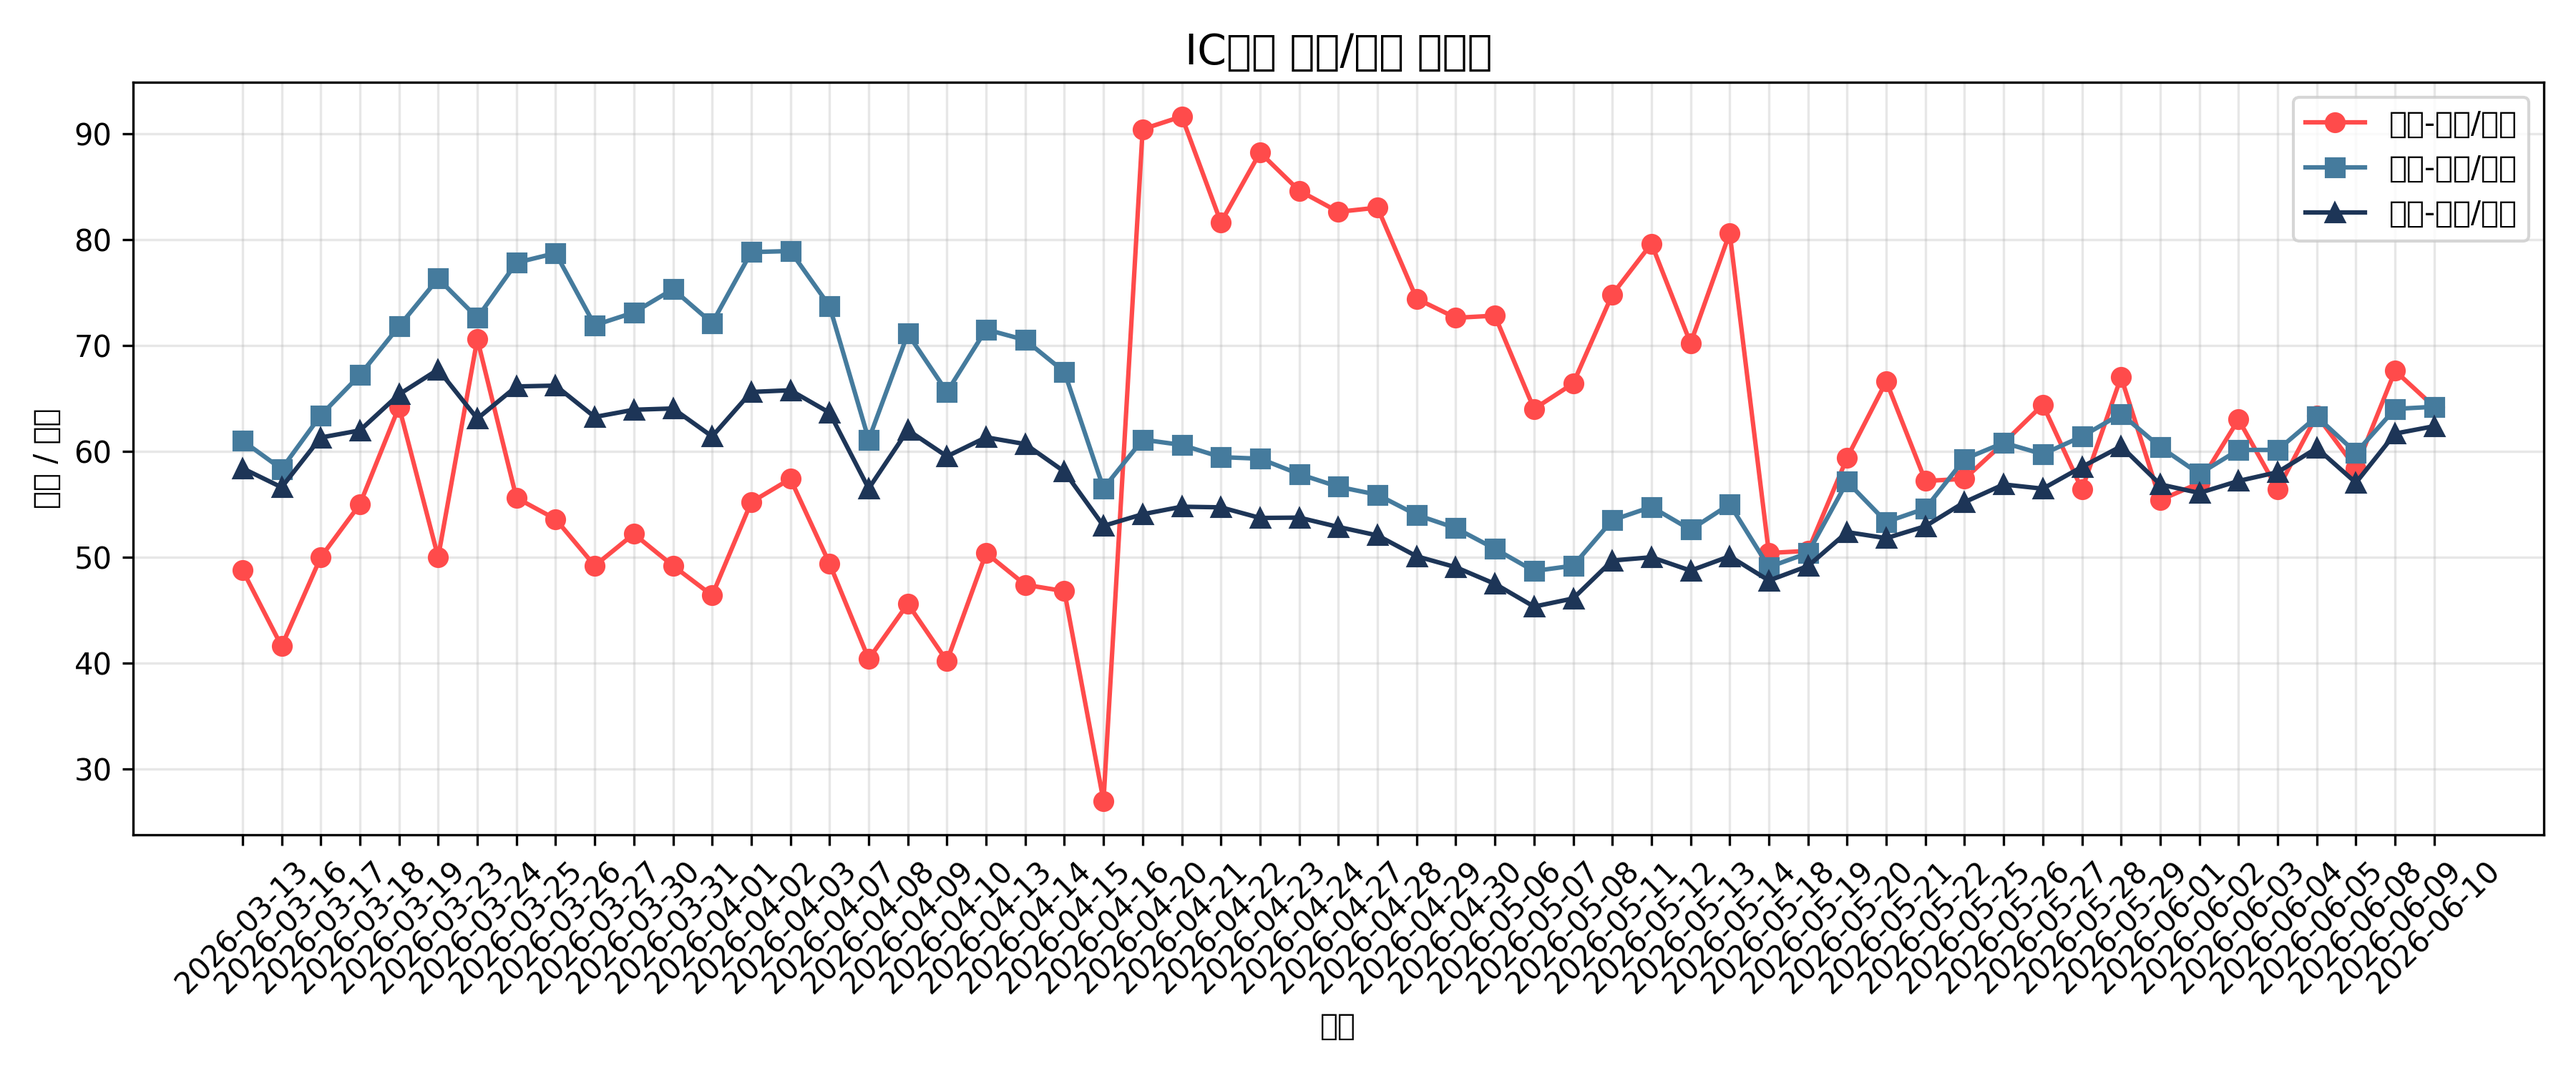
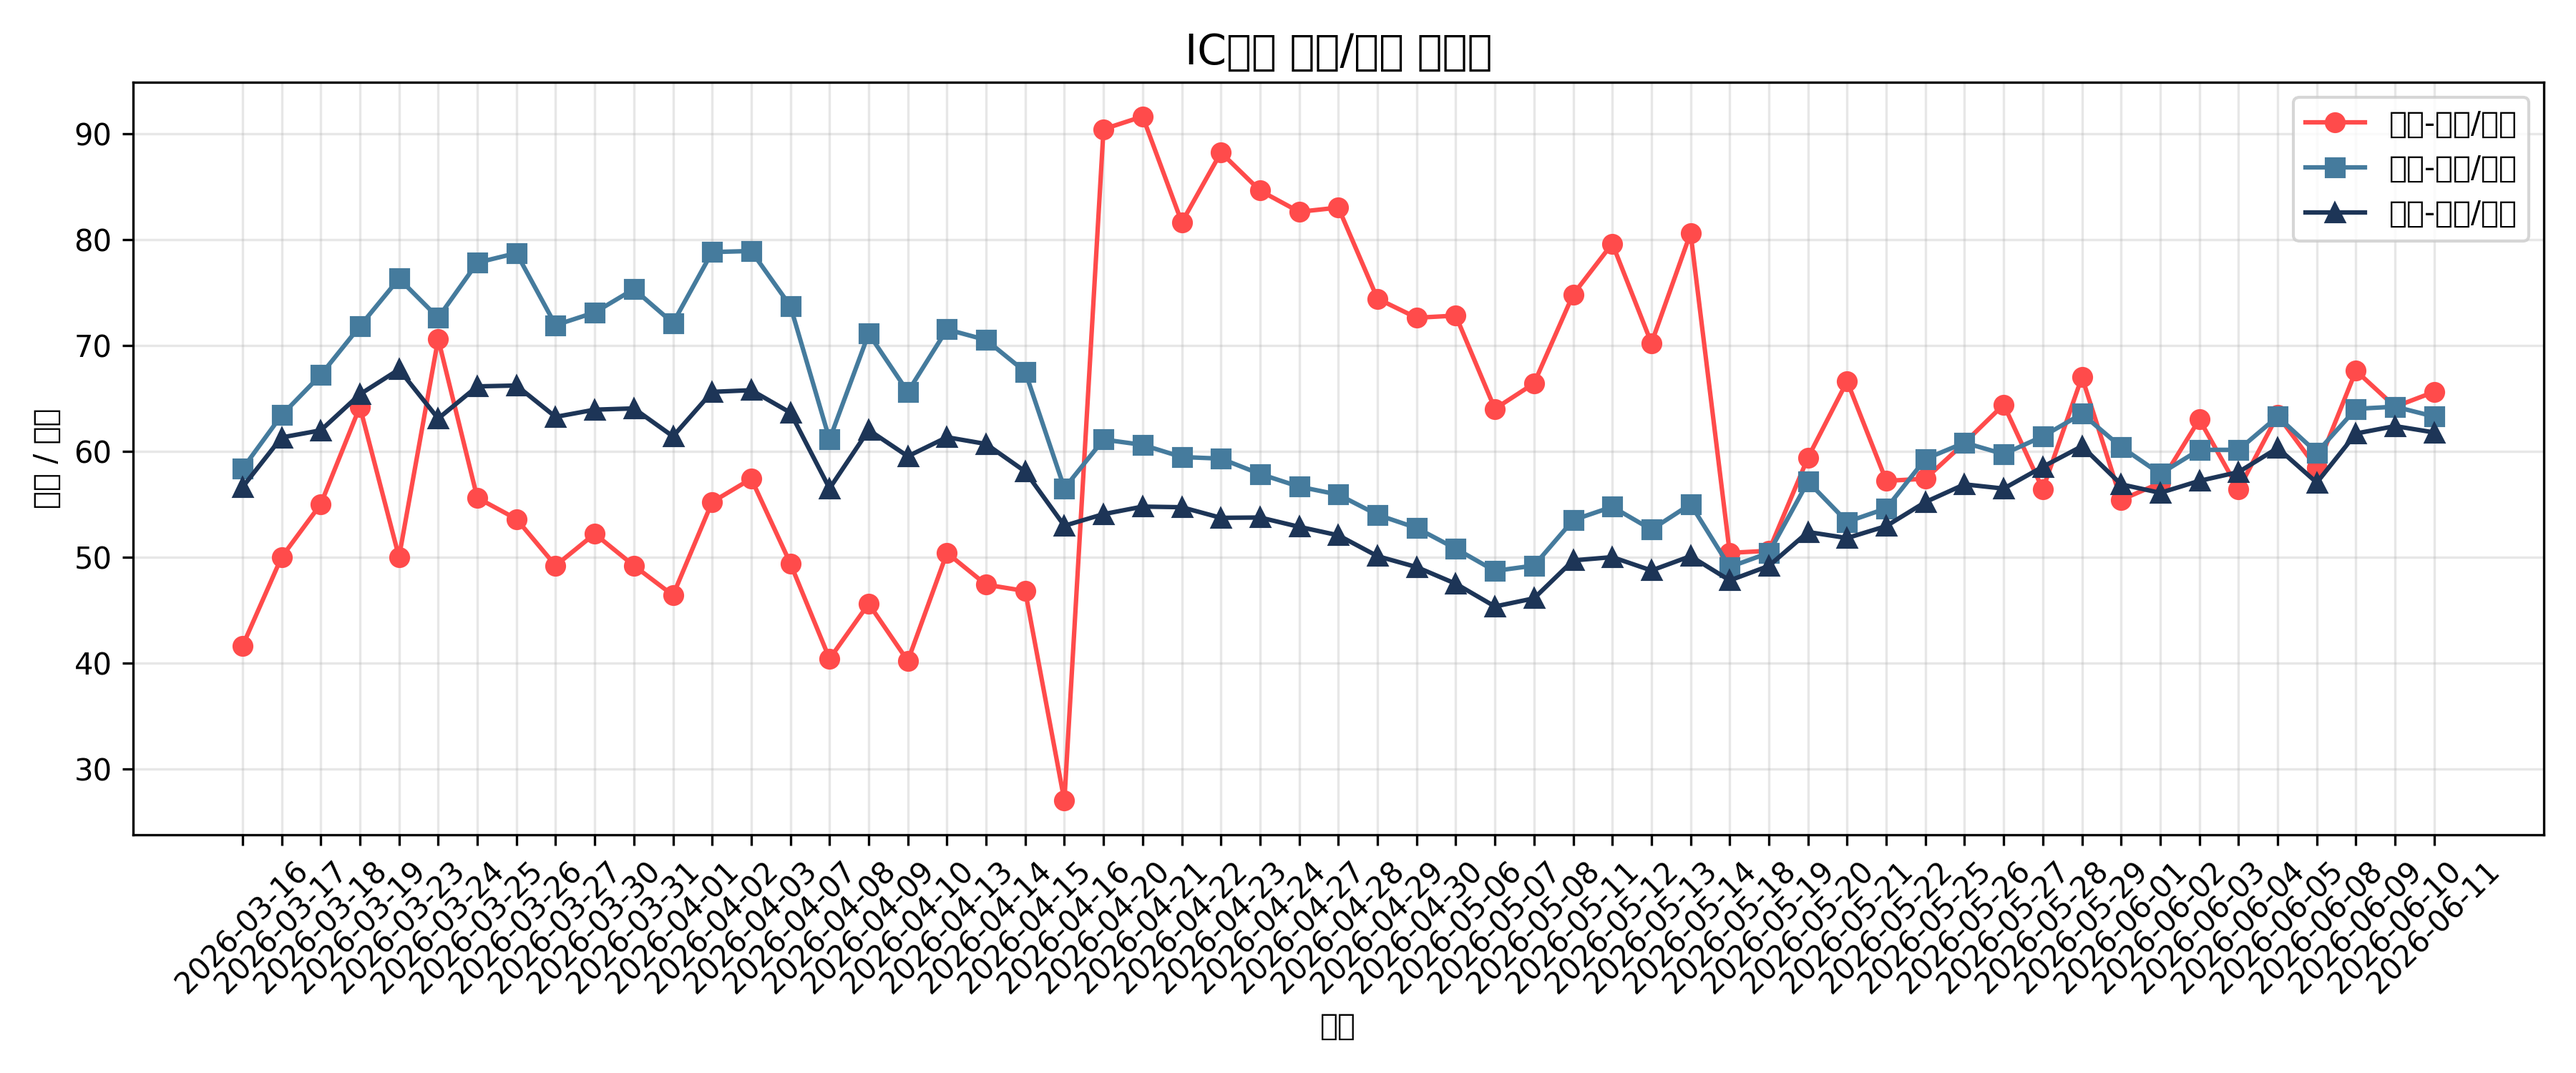
deploy: 4d1bb30b7b0bf8623cc214497fc979b4192c654b

diff --git a/index.html b/index.html
@@ -84,19 +84,19 @@
 <body>
     <div class="container">
         <h1>IC期货基差监控</h1>
-        <div class="last-updated">最后更新：2026-06-10 20:00:04</div>
+        <div class="last-updated">最后更新：2026-06-11 20:34:25</div>
         
         <div class="stats">
             <div class="stat-card">
-                <div class="stat-value">64.2</div>
+                <div class="stat-value">65.6</div>
                 <div class="stat-label">当月-下月/月差</div>
             </div>
             <div class="stat-card">
-                <div class="stat-value">64.2</div>
+                <div class="stat-value">63.27</div>
                 <div class="stat-label">当月-当季/月差</div>
             </div>
             <div class="stat-card">
-                <div class="stat-value">62.37</div>
+                <div class="stat-value">61.77</div>
                 <div class="stat-label">当月-下季/月差</div>
             </div>
         </div>
@@ -114,14 +114,6 @@
                 <th>当月-下月/月差</th>
                 <th>当月-当季/月差</th>
                 <th>当月-下季/月差</th>
-            </tr>
-
-            <tr>
-                <td>2026-06-02</td>
-                <td>IC2606</td>
-                <td>57.0</td>
-                <td>57.87</td>
-                <td>56.07</td>
             </tr>
 
             <tr>
@@ -170,6 +162,14 @@
                 <td>64.2</td>
                 <td>64.2</td>
                 <td>62.37</td>
+            </tr>
+
+            <tr>
+                <td>2026-06-11</td>
+                <td>IC2606</td>
+                <td>65.6</td>
+                <td>63.27</td>
+                <td>61.77</td>
             </tr>
 
         </table>
